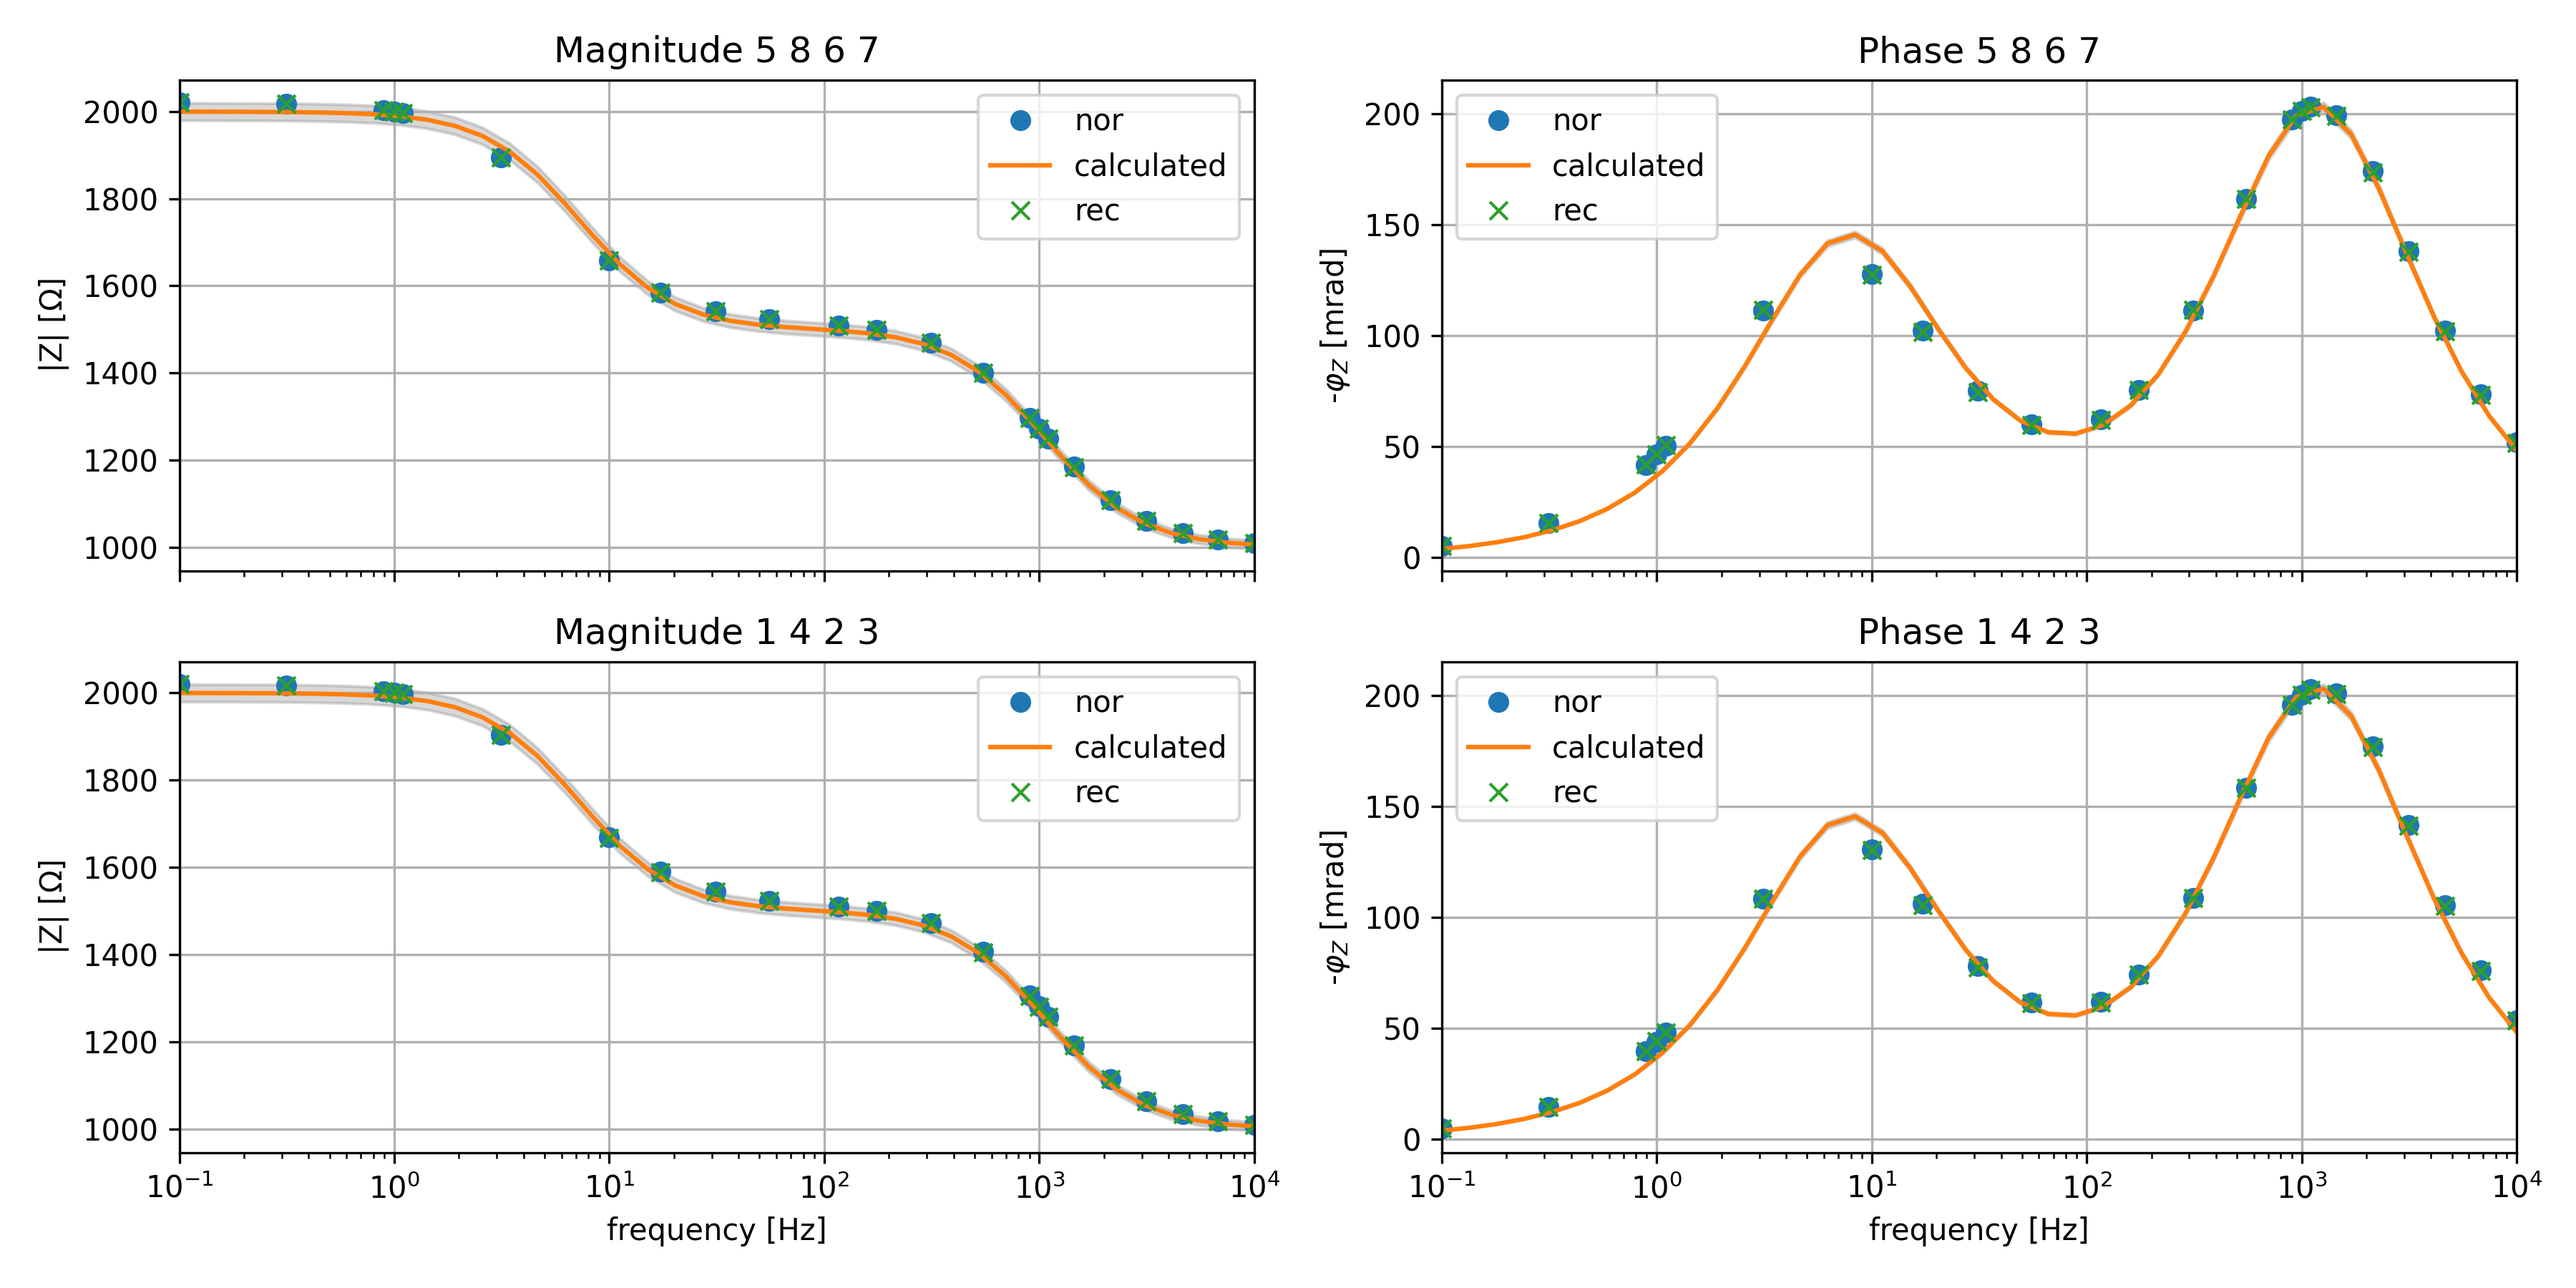
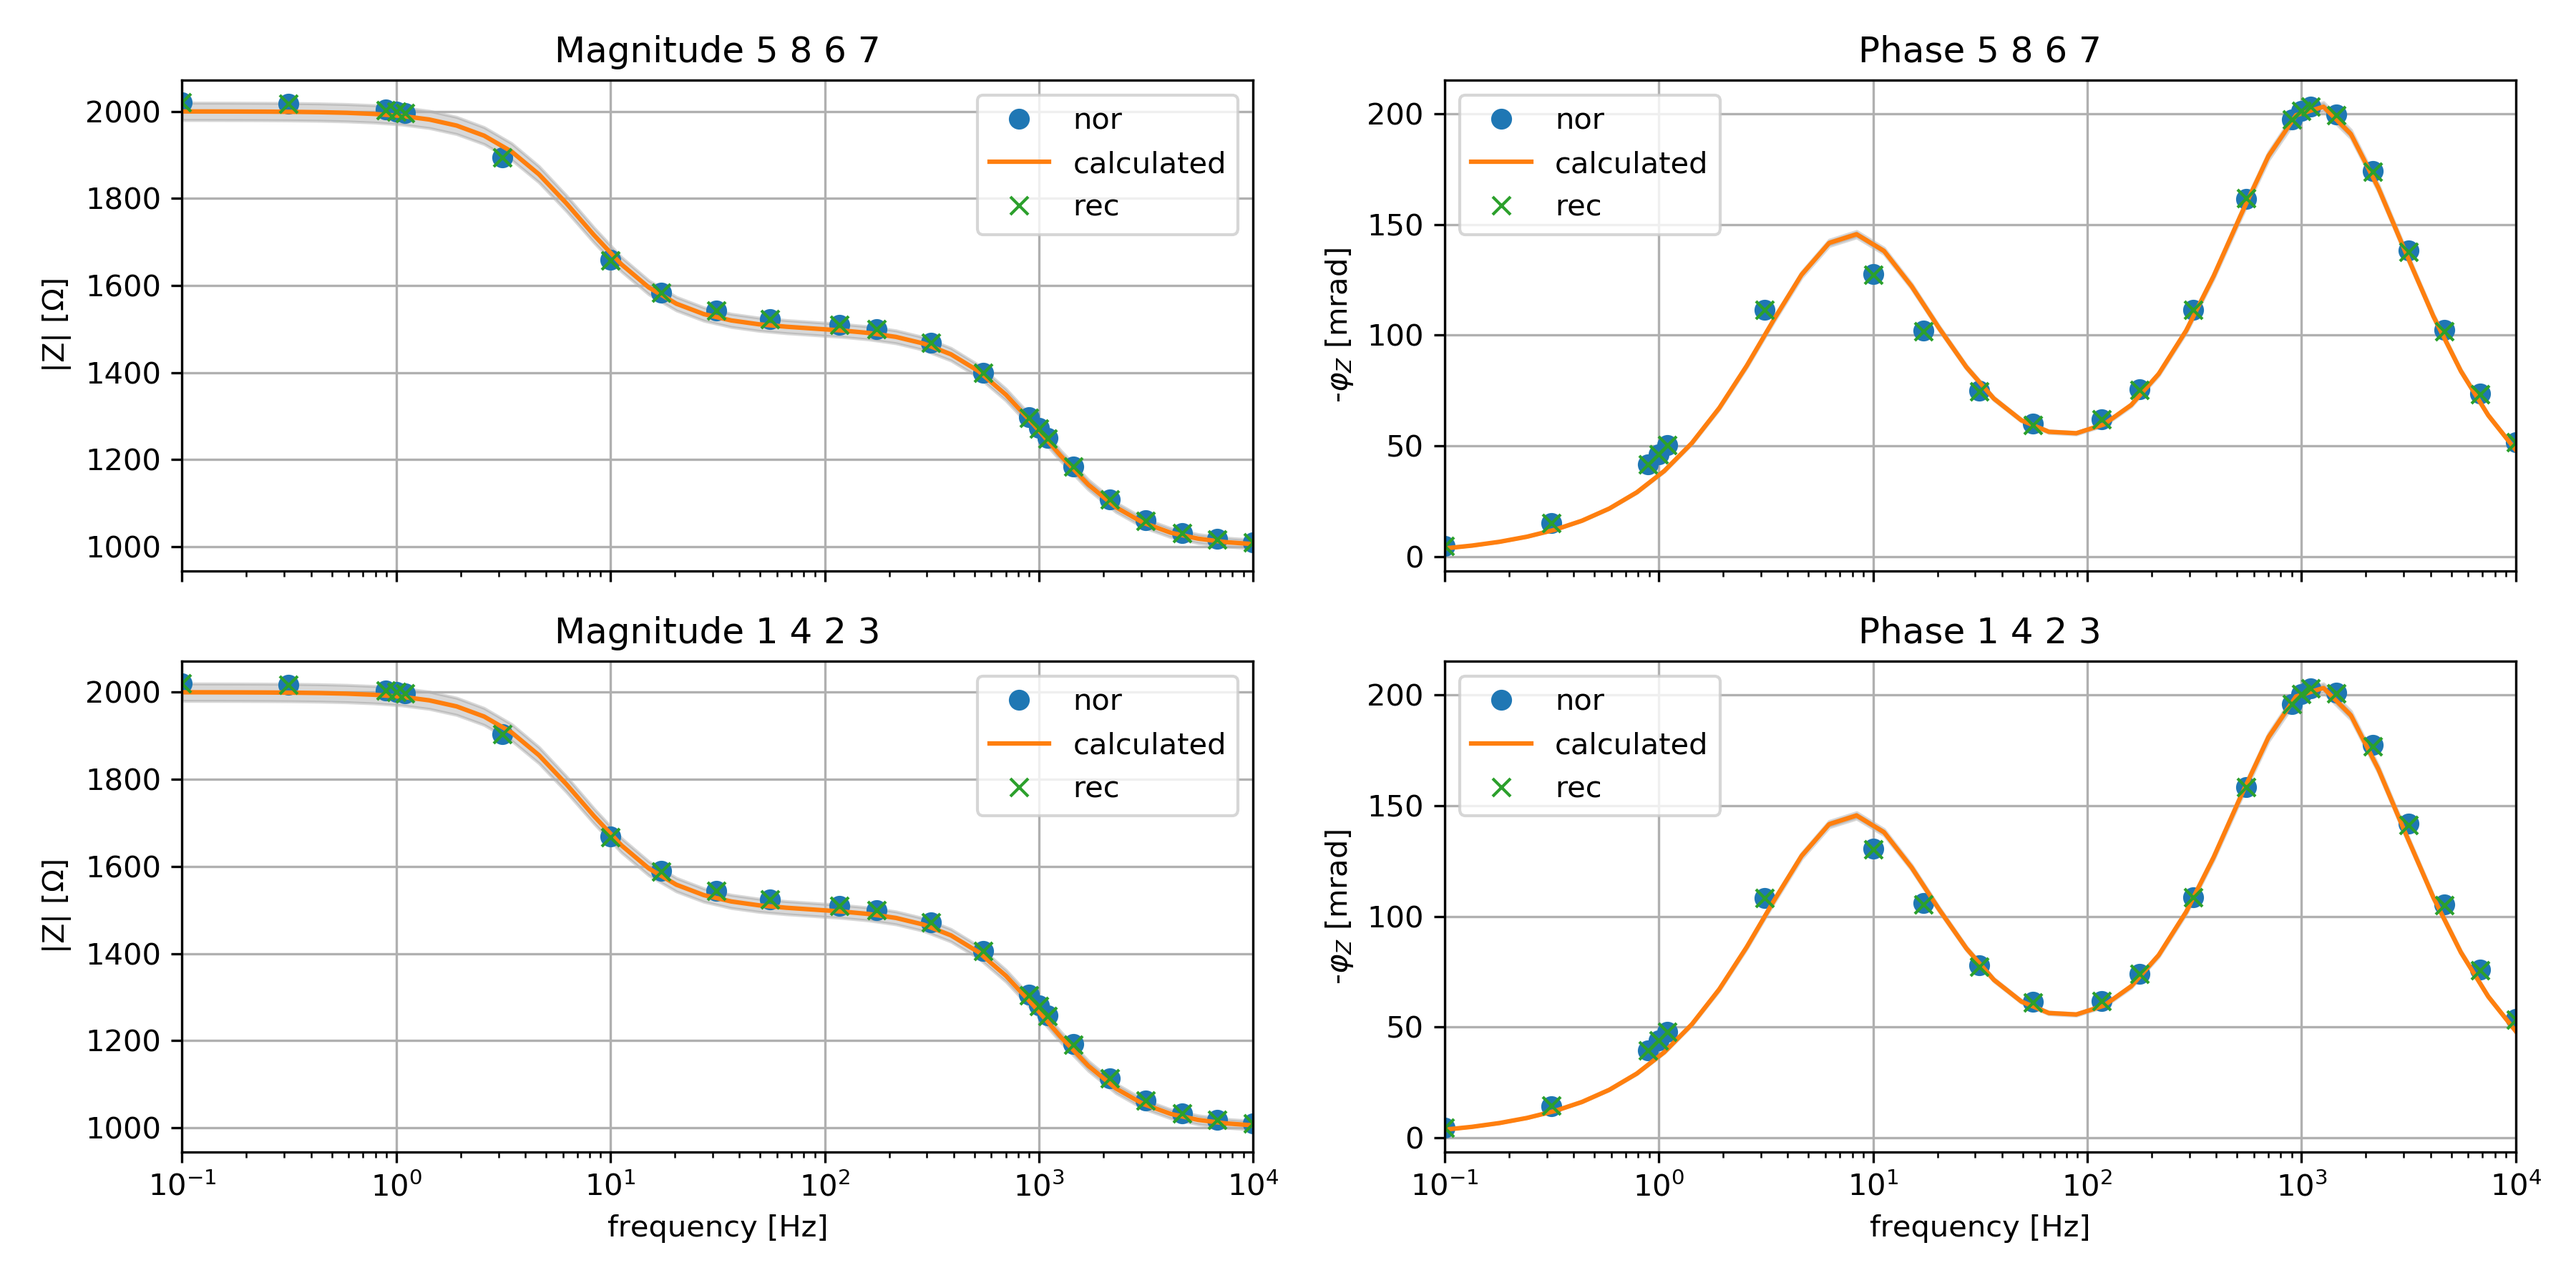
update to testboard function (now supports single configurations)

diff --git a/lib/reda/utils/eit_fzj_utils.py b/lib/reda/utils/eit_fzj_utils.py
@@ -409,32 +409,69 @@ def testboard_evaluation(datapath, configdat,
     fig, axes = plt.subplots(
         int(len(nor)), 2, figsize=(12, 3*len(nor)), sharex=True)
 
-    # plot normal measurements and theoretical response
-    for num, n in enumerate(nor):
-        axes[num-1][0].set_title('Magnitude {} {} {} {}'.format(
-            n.iloc[0]['a'], n.iloc[0]['b'], n.iloc[0]['m'], n.iloc[0]['n']))
-        axes[num-1][0].plot(n["frequency"], n['r'],
-                            marker='o', linestyle=' ', label='nor')
-        axes[num-1][0].plot(frequencies, rmag, label='calculated')
-        axes[num-1][0].fill_between(frequencies, rmag+error_rmag,
-                                    rmag-error_rmag, color='grey', alpha=0.3)
-        axes[num-1][0].set_ylabel(r'|Z| [$\Omega$]')
-        axes[num-1][1].set_title('Phase {} {} {} {}'.format(
-            n.iloc[0]['a'], n.iloc[0]['b'], n.iloc[0]['m'], n.iloc[0]['n']))
-        axes[num-1][1].plot(n["frequency"], -1*n['rpha'],
-                            marker='o', linestyle=' ', label='nor')
-        axes[num-1][1].plot(frequencies, -1*rpha, label='calculated')
-        axes[num-1][1].fill_between(
-            frequencies, -1*rpha + error_rpha, -1*rpha-error_rpha,
-            color='grey', alpha=0.3)
-        axes[num-1][1].set_ylabel(r'-$\varphi_{Z}$ [mrad]')
+    if len(nor)<=1:
+        # plot normal measurements and theoretical response
+        for num, n in enumerate(nor):
+            axes[0].set_title('Magnitude {} {} {} {}'.format(
+                n.iloc[0]['a'], n.iloc[0]['b'], n.iloc[0]['m'], n.iloc[0]['n']))
+            axes[0].plot(n["frequency"], n['r'],
+                                marker='o', linestyle=' ', label='nor')
+            axes[0].plot(frequencies, rmag, label='calculated')
+            axes[0].fill_between(frequencies, rmag+error_rmag,
+                                        rmag-error_rmag, color='grey', alpha=0.3)
+            axes[0].set_ylabel(r'|Z| [$\Omega$]')
+            axes[1].set_title('Phase {} {} {} {}'.format(
+                n.iloc[0]['a'], n.iloc[0]['b'], n.iloc[0]['m'], n.iloc[0]['n']))
+            axes[1].plot(n["frequency"], -1*n['rpha'],
+                                marker='o', linestyle=' ', label='nor')
+            axes[1].plot(frequencies, -1*rpha, label='calculated')
+            axes[1].fill_between(
+                frequencies, -1*rpha + error_rpha, -1*rpha-error_rpha,
+                color='grey', alpha=0.3)
+            axes[1].set_ylabel(r'-$\varphi_{Z}$ [mrad]')
 
-    # plot reciprocal measurements
-    for num, r in enumerate(rec):
-        axes[num-1][0].plot(r["frequency"], r['r'],
-                            marker='x', linestyle=' ', label='rec')
-        axes[num-1][1].plot(r["frequency"], -1*r['rpha'],
-                            marker='x', linestyle=' ', label='rec')
+        # plot reciprocal measurements
+        for num, r in enumerate(rec):
+            axes[0].plot(r["frequency"], r['r'],
+                                marker='x', linestyle=' ', label='rec')
+            axes[1].plot(r["frequency"], -1*r['rpha'],
+                                marker='x', linestyle=' ', label='rec')
+
+        # axis labels for two plots
+        axes[0].set_xlabel("frequency [Hz]")
+        axes[1].set_xlabel("frequency [Hz]")
+
+    else:
+        # plot normal measurements and theoretical response
+        for num, n in enumerate(nor):
+            axes[num-1][0].set_title('Magnitude {} {} {} {}'.format(
+                n.iloc[0]['a'], n.iloc[0]['b'], n.iloc[0]['m'], n.iloc[0]['n']))
+            axes[num-1][0].plot(n["frequency"], n['r'],
+                                marker='o', linestyle=' ', label='nor')
+            axes[num-1][0].plot(frequencies, rmag, label='calculated')
+            axes[num-1][0].fill_between(frequencies, rmag+error_rmag,
+                                        rmag-error_rmag, color='grey', alpha=0.3)
+            axes[num-1][0].set_ylabel(r'|Z| [$\Omega$]')
+            axes[num-1][1].set_title('Phase {} {} {} {}'.format(
+                n.iloc[0]['a'], n.iloc[0]['b'], n.iloc[0]['m'], n.iloc[0]['n']))
+            axes[num-1][1].plot(n["frequency"], -1*n['rpha'],
+                                marker='o', linestyle=' ', label='nor')
+            axes[num-1][1].plot(frequencies, -1*rpha, label='calculated')
+            axes[num-1][1].fill_between(
+                frequencies, -1*rpha + error_rpha, -1*rpha-error_rpha,
+                color='grey', alpha=0.3)
+            axes[num-1][1].set_ylabel(r'-$\varphi_{Z}$ [mrad]')
+
+        # plot reciprocal measurements
+        for num, r in enumerate(rec):
+            axes[num-1][0].plot(r["frequency"], r['r'],
+                                marker='x', linestyle=' ', label='rec')
+            axes[num-1][1].plot(r["frequency"], -1*r['rpha'],
+                                marker='x', linestyle=' ', label='rec')
+
+        # axis labels for two bottom plots
+        axes[len(nor)-1][0].set_xlabel("frequency [Hz]")
+        axes[len(nor)-1][1].set_xlabel("frequency [Hz]")
 
     # axis scaling and legends
     for ax in axes.reshape(-1):
@@ -442,10 +479,6 @@ def testboard_evaluation(datapath, configdat,
         ax.legend()
         ax.set_xscale("log")
         ax.set_xlim(min(frequencies), max(frequencies))
-
-    # axis labels for two bottom plots
-    axes[len(nor)-1][0].set_xlabel("frequency [Hz]")
-    axes[len(nor)-1][1].set_xlabel("frequency [Hz]")
 
     fig.tight_layout()
     fig.savefig('{}.png'.format(outputname), dpi=300)
